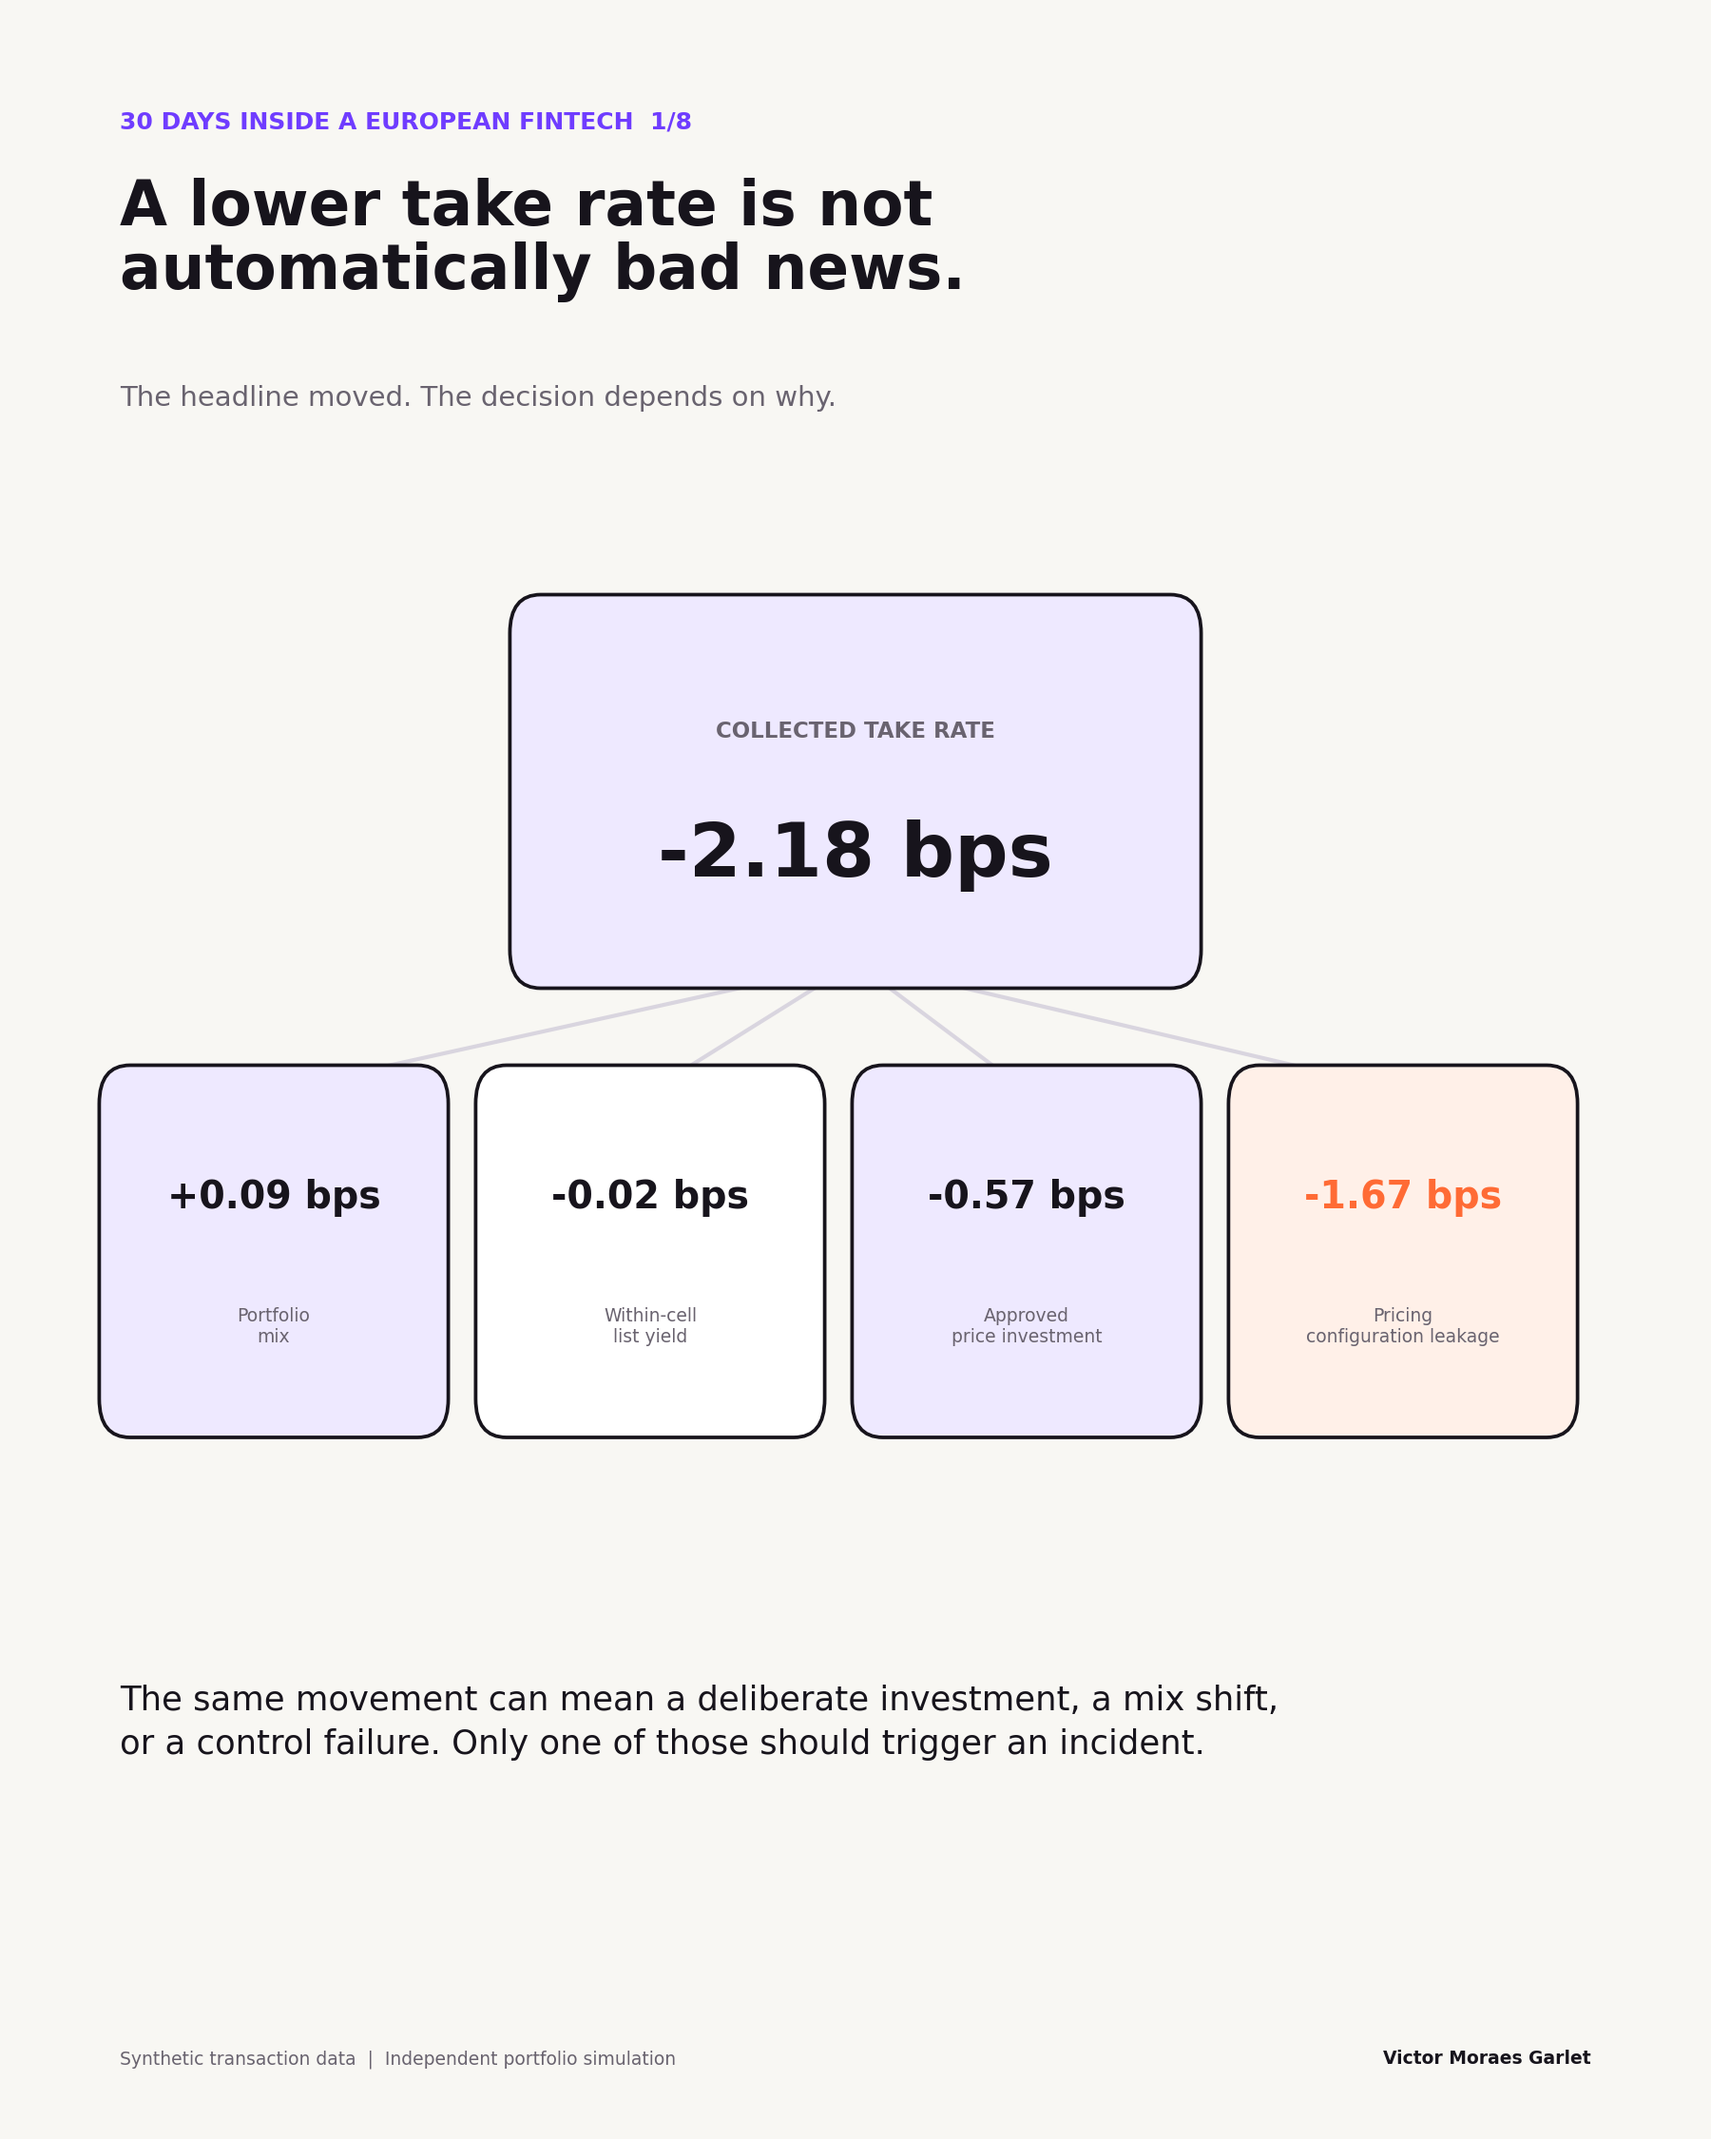
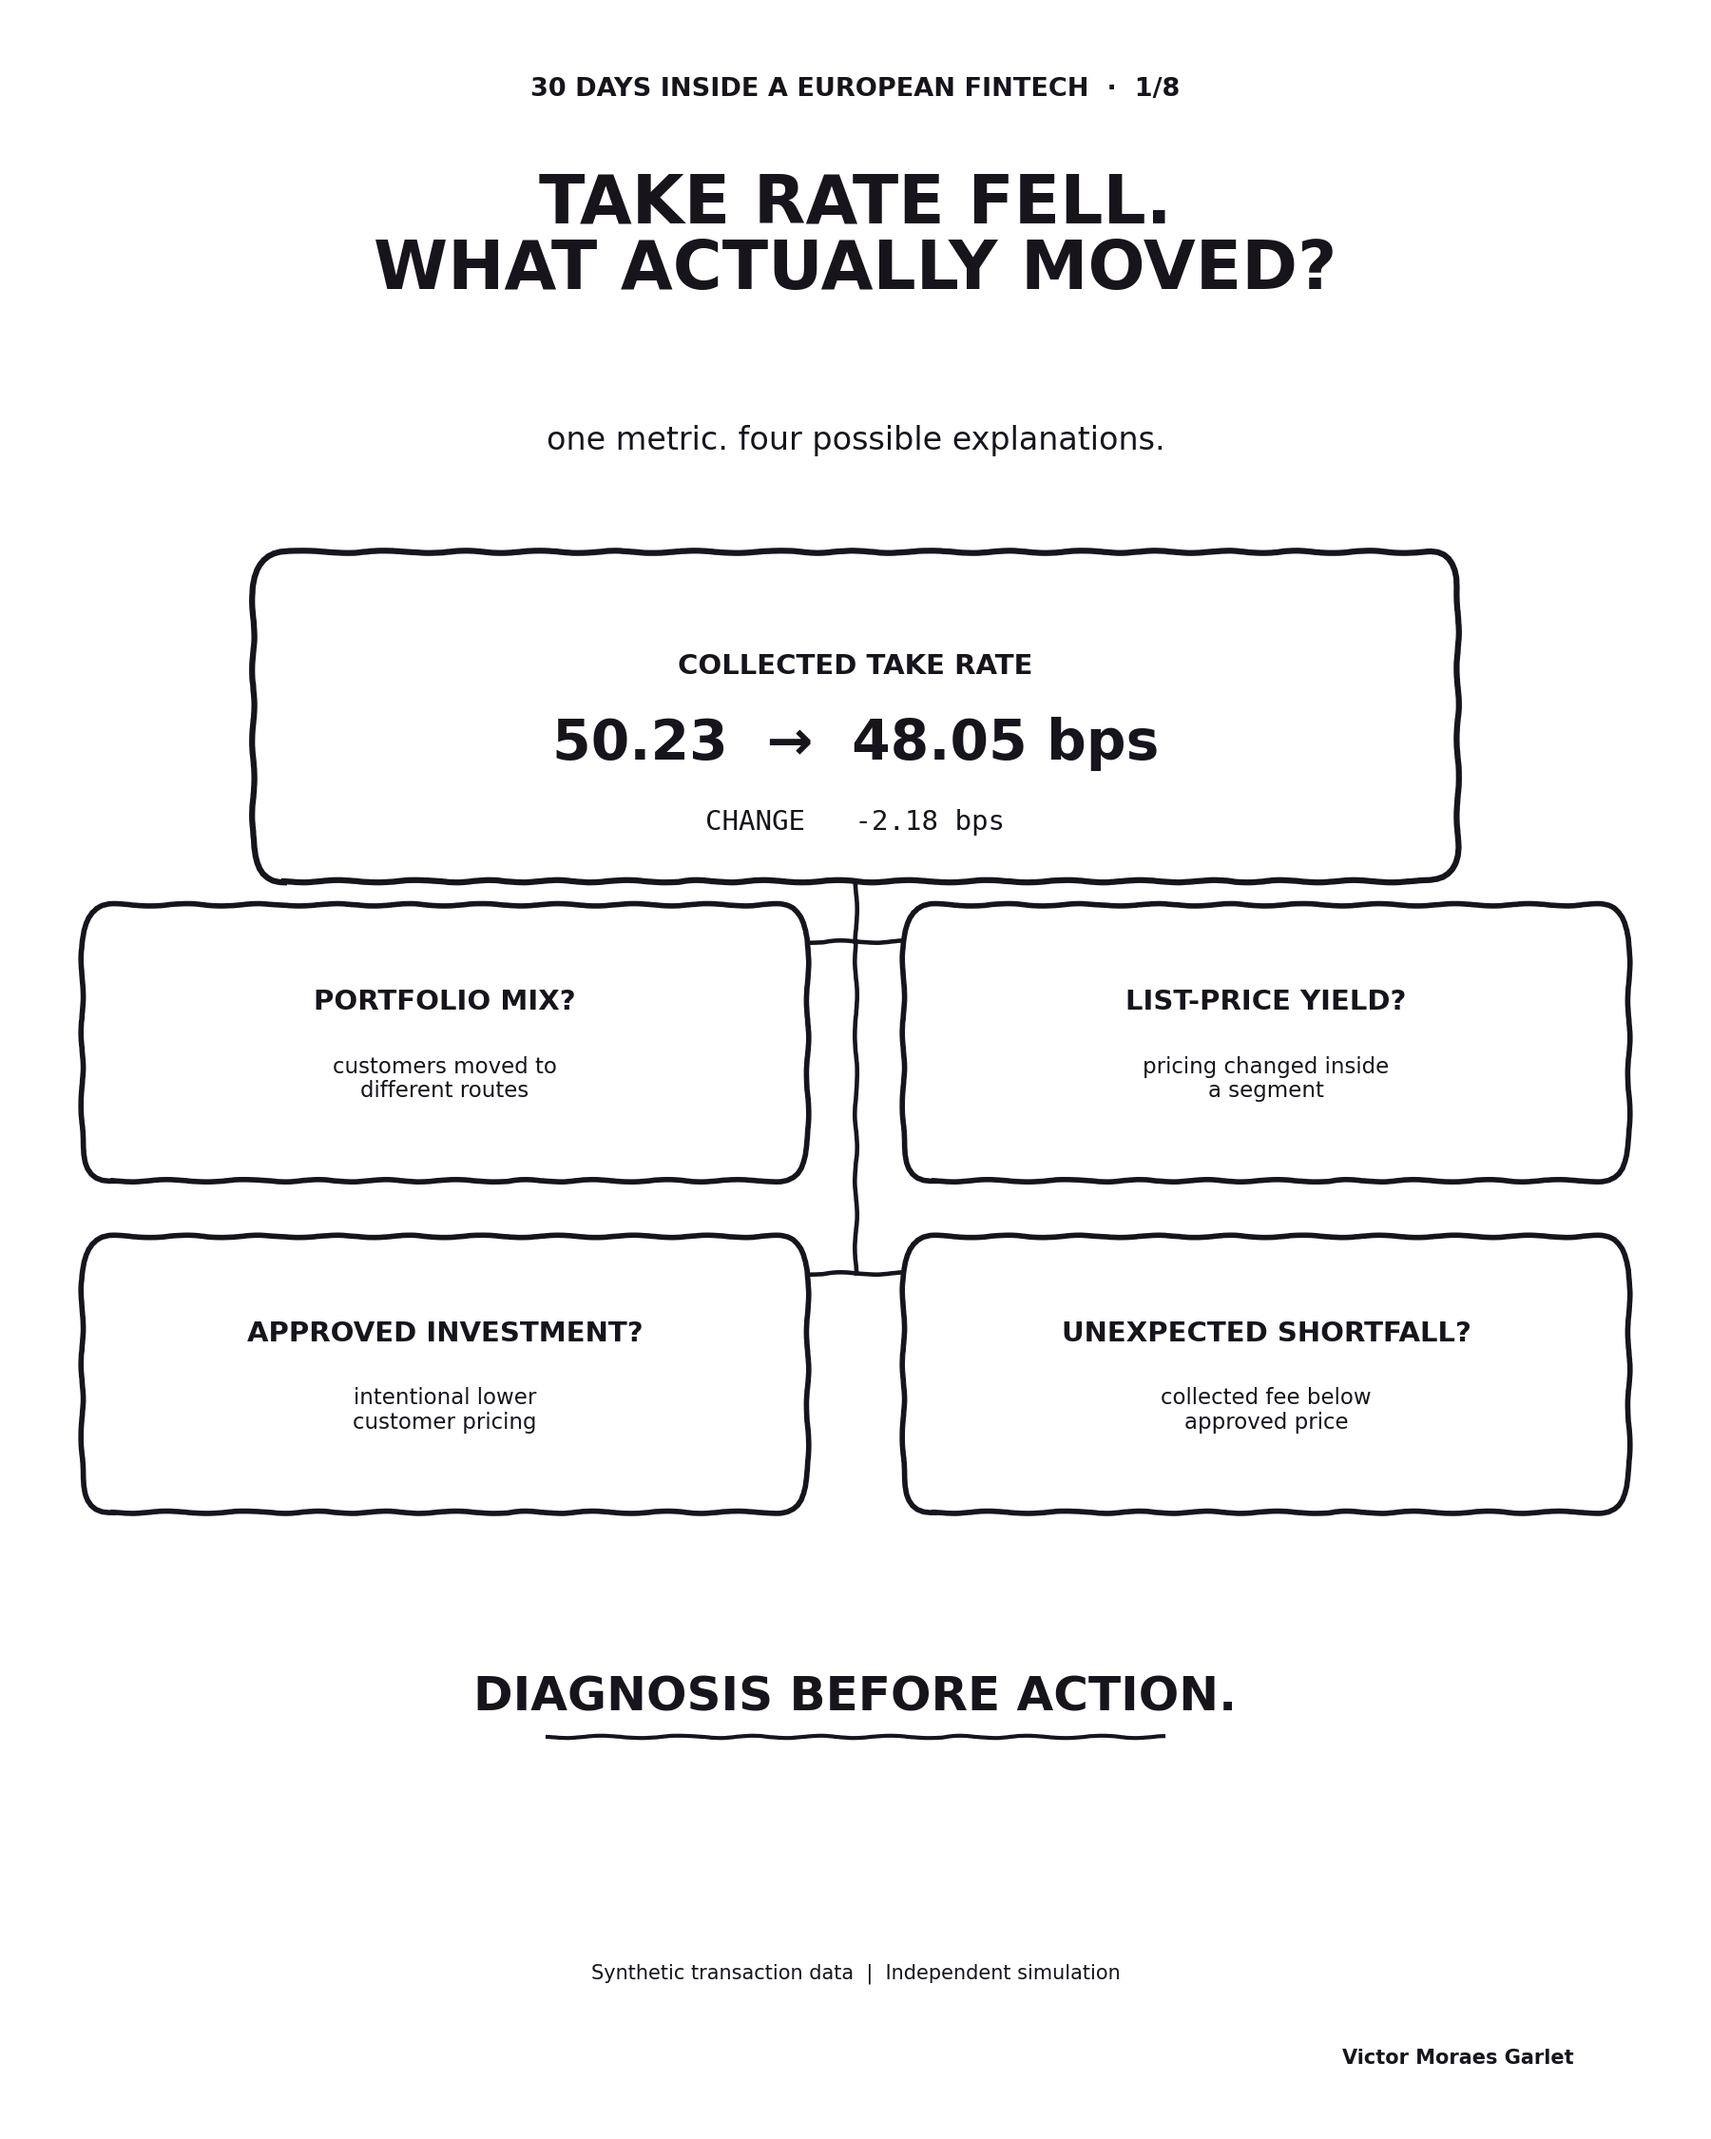
Revise episode 1 narrative and visual

diff --git a/scripts/build_visuals.py b/scripts/build_visuals.py
@@ -71,29 +71,65 @@ def build_episode_01(connection):
     values = {code: (label, value) for code, label, value in rows}
     change = values["comparison"][1] - values["baseline"][1]
 
-    fig, ax = base_figure(
-        1,
-        "A lower take rate is not\nautomatically bad news.",
-        "The headline moved. The decision depends on why.",
-    )
-    card(ax, 0.31, 0.55, 0.38, 0.16, PURPLE_SOFT)
-    ax.text(0.50, 0.655, "COLLECTED TAKE RATE", ha="center", color=MUTED, fontsize=11, fontweight="bold")
-    ax.text(0.50, 0.59, f"{change:+.2f} bps", ha="center", color=INK, fontsize=38, fontweight="bold")
+    fig = plt.figure(figsize=(12, 15), facecolor=WHITE)
+    ax = fig.add_axes((0, 0, 1, 1))
+    ax.set_xlim(0, 1)
+    ax.set_ylim(0, 1)
+    ax.axis("off")
+
+    def rough_card(x, y, width, height, linewidth=2.7):
+        patch = FancyBboxPatch(
+            (x, y),
+            width,
+            height,
+            boxstyle="round,pad=0.012,rounding_size=0.018",
+            linewidth=linewidth,
+            edgecolor=INK,
+            facecolor=WHITE,
+        )
+        patch.set_sketch_params(scale=1.2, length=90, randomness=2.5)
+        ax.add_patch(patch)
+
+    def rough_line(xs, ys, linewidth=2.2):
+        line, = ax.plot(xs, ys, color=INK, linewidth=linewidth, zorder=0)
+        line.set_sketch_params(scale=1.2, length=90, randomness=2.5)
+
+    baseline = values["baseline"][1]
+    comparison = values["comparison"][1]
+
+    fig.text(0.50, 0.955, "30 DAYS INSIDE A EUROPEAN FINTECH  ·  1/8", ha="center", color=INK, fontsize=13, fontweight="bold")
+    fig.text(0.50, 0.865, "TAKE RATE FELL.\nWHAT ACTUALLY MOVED?", ha="center", color=INK, fontsize=34, fontweight="bold", linespacing=1.0)
+    fig.text(0.50, 0.79, "one metric. four possible explanations.", ha="center", color=INK, fontsize=16)
+
+    rough_card(0.16, 0.60, 0.68, 0.13, 3.0)
+    ax.text(0.50, 0.685, "COLLECTED TAKE RATE", ha="center", color=INK, fontsize=14, fontweight="bold")
+    ax.text(0.50, 0.645, f"{baseline:.2f}  →  {comparison:.2f} bps", ha="center", color=INK, fontsize=28, fontweight="bold")
+    ax.text(0.50, 0.612, f"CHANGE   {change:+.2f} bps", ha="center", color=INK, fontsize=14, family="monospace")
+
+    rough_line([0.50, 0.50], [0.60, 0.56])
+    rough_line([0.25, 0.75], [0.56, 0.56])
+    rough_line([0.25, 0.25], [0.56, 0.535])
+    rough_line([0.75, 0.75], [0.56, 0.535])
+    rough_line([0.50, 0.50], [0.56, 0.405])
+    rough_line([0.25, 0.75], [0.405, 0.405])
+    rough_line([0.25, 0.25], [0.405, 0.38])
+    rough_line([0.75, 0.75], [0.405, 0.38])
 
     branches = [
-        ("portfolio_mix", 0.07, 0.34, PURPLE_SOFT),
-        ("within_cell_yield", 0.29, 0.34, WHITE),
-        ("approved_price_investment", 0.51, 0.34, PURPLE_SOFT),
-        ("fee_leakage", 0.73, 0.34, ORANGE_SOFT),
+        (0.06, 0.46, "PORTFOLIO MIX?", "customers moved to\ndifferent routes"),
+        (0.54, 0.46, "LIST-PRICE YIELD?", "pricing changed inside\na segment"),
+        (0.06, 0.305, "APPROVED INVESTMENT?", "intentional lower\ncustomer pricing"),
+        (0.54, 0.305, "UNEXPECTED SHORTFALL?", "collected fee below\napproved price"),
     ]
-    for code, x, y, fill in branches:
-        ax.plot([0.50, x + 0.09], [0.55, y + 0.15], color=LINE, linewidth=2, zorder=0)
-        card(ax, x, y, 0.18, 0.15, fill)
-        label, impact = values[code]
-        ax.text(x + 0.09, y + 0.095, f"{impact:+.2f} bps", ha="center", color=ORANGE if impact < -1 else INK, fontsize=19, fontweight="bold")
-        ax.text(x + 0.09, y + 0.04, label.replace(" ", "\n", 1), ha="center", va="center", color=MUTED, fontsize=9)
+    for x, y, heading, body in branches:
+        rough_card(x, y, 0.40, 0.105)
+        ax.text(x + 0.20, y + 0.068, heading, ha="center", color=INK, fontsize=14, fontweight="bold")
+        ax.text(x + 0.20, y + 0.027, body, ha="center", color=INK, fontsize=11, linespacing=1.15)
 
-    ax.text(0.07, 0.18, "The same movement can mean a deliberate investment, a mix shift,\nor a control failure. Only one of those should trigger an incident.", color=INK, fontsize=17, linespacing=1.45)
+    ax.text(0.50, 0.20, "DIAGNOSIS BEFORE ACTION.", ha="center", color=INK, fontsize=24, fontweight="bold")
+    rough_line([0.32, 0.68], [0.188, 0.188], 2.0)
+    fig.text(0.50, 0.075, "Synthetic transaction data  |  Independent simulation", ha="center", color=INK, fontsize=10)
+    fig.text(0.92, 0.035, "Victor Moraes Garlet", ha="right", color=INK, fontsize=10, fontweight="bold")
     save(fig, "episode_01_metric_tree.png")
 
 

diff --git a/content/posts/episode_01.md b/content/posts/episode_01.md
@@ -1,43 +1,53 @@
 # Episode 1: Frame the decision
 
-**Status:** Draft for approval  
+**Status:** Approved
 **Visual:** `content/visuals/episode_01_metric_tree.png`
 
 ## Post copy
+
+In my simulated fintech, collected take rate fell from 50.23 to 48.05 basis points.
+
+Should Pricing reverse a discount, should Finance investigate a fee shortfall, or should nobody intervene yet?
+
+The KPI alone cannot answer that.
 
 **30 Days Inside a European Fintech [1/8]**
 
 I'm using Wise's public disclosures and synthetic data to simulate how a Senior Data Analyst could work through a fintech problem from question to decision.
 
-A lower take rate appeared in the scorecard.
+A 2.18 bps decline could come from very different places:
 
-That sounds like bad news until you ask what moved underneath it.
+• customers moved towards lower-priced routes
+• list-price yield changed within a segment
+• the business deliberately invested in lower customer prices
+• the amount collected fell below the approved price
 
-In the simulated business, collected take rate fell by 2.18 basis points between the H2 2025 baseline and H1 2026.
+Those explanations should not be treated as the same problem.
 
-There are at least four very different explanations for that movement:
+A portfolio shift may require no intervention. An approved price investment should be evaluated against customer and growth outcomes. An unexpected shortfall needs investigation and a control fix.
 
-• the portfolio mix changed  
-• list-price yield changed inside a segment  
-• the business deliberately invested in customer pricing  
-• a fee was collected incorrectly
+So I did not start with a dashboard.
 
-Those explanations lead to different decisions. A planned price investment should be evaluated against customer and growth outcomes. A configuration leak needs a control fix. Mix may need no intervention at all.
-
-I started with a decision tree. The dashboard came later.
-
-The question is:
+I started with the decision the analysis needed to support:
 
 How can a European payments fintech lower prices and improve transfer speed without losing control of unit economics?
 
-The work will follow that question through metric definitions, reconciliation, take-rate decomposition, provider economics and a final recommendation.
+From there, the work became more specific:
 
-The first rule is simple: never attach an action to a headline KPI before explaining its movement.
+1. Define each metric before calculating it
+2. Reconcile volume and fees to the same transfer population
+3. Separate list, expected and collected fees
+4. Explain the movement before recommending action
+5. Connect the result to transfer speed and provider cost
 
-When take rate moves in your team, can you separate approved investment from unexpected shortfall?
+The 2.18 bps decline is the starting signal. It is not the diagnosis.
 
-Quick glossary  
+Next, I'll build the metric contract behind this analysis. If Finance, Pricing and Operations mean different things by “take rate”, every conclusion after that becomes unstable.
+
+Quick glossary
+
 *Take rate = fee revenue as a proportion of transfer volume.  
 *Basis point (bp) = 0.01 percentage point.
+*Metric contract = an agreed definition covering the formula, filters, level of detail and ownership of a metric.
 
-This is an independent simulation inspired by Wise's public disclosures. I am not affiliated with Wise. All transaction-level data and project findings are synthetic; any company-level figures are sourced from public reports.
+Disclosure: This is an independent simulation inspired by Wise's public disclosures. I am not affiliated with Wise. All transaction-level data and project findings are synthetic; any company-level figures are sourced from public reports.
